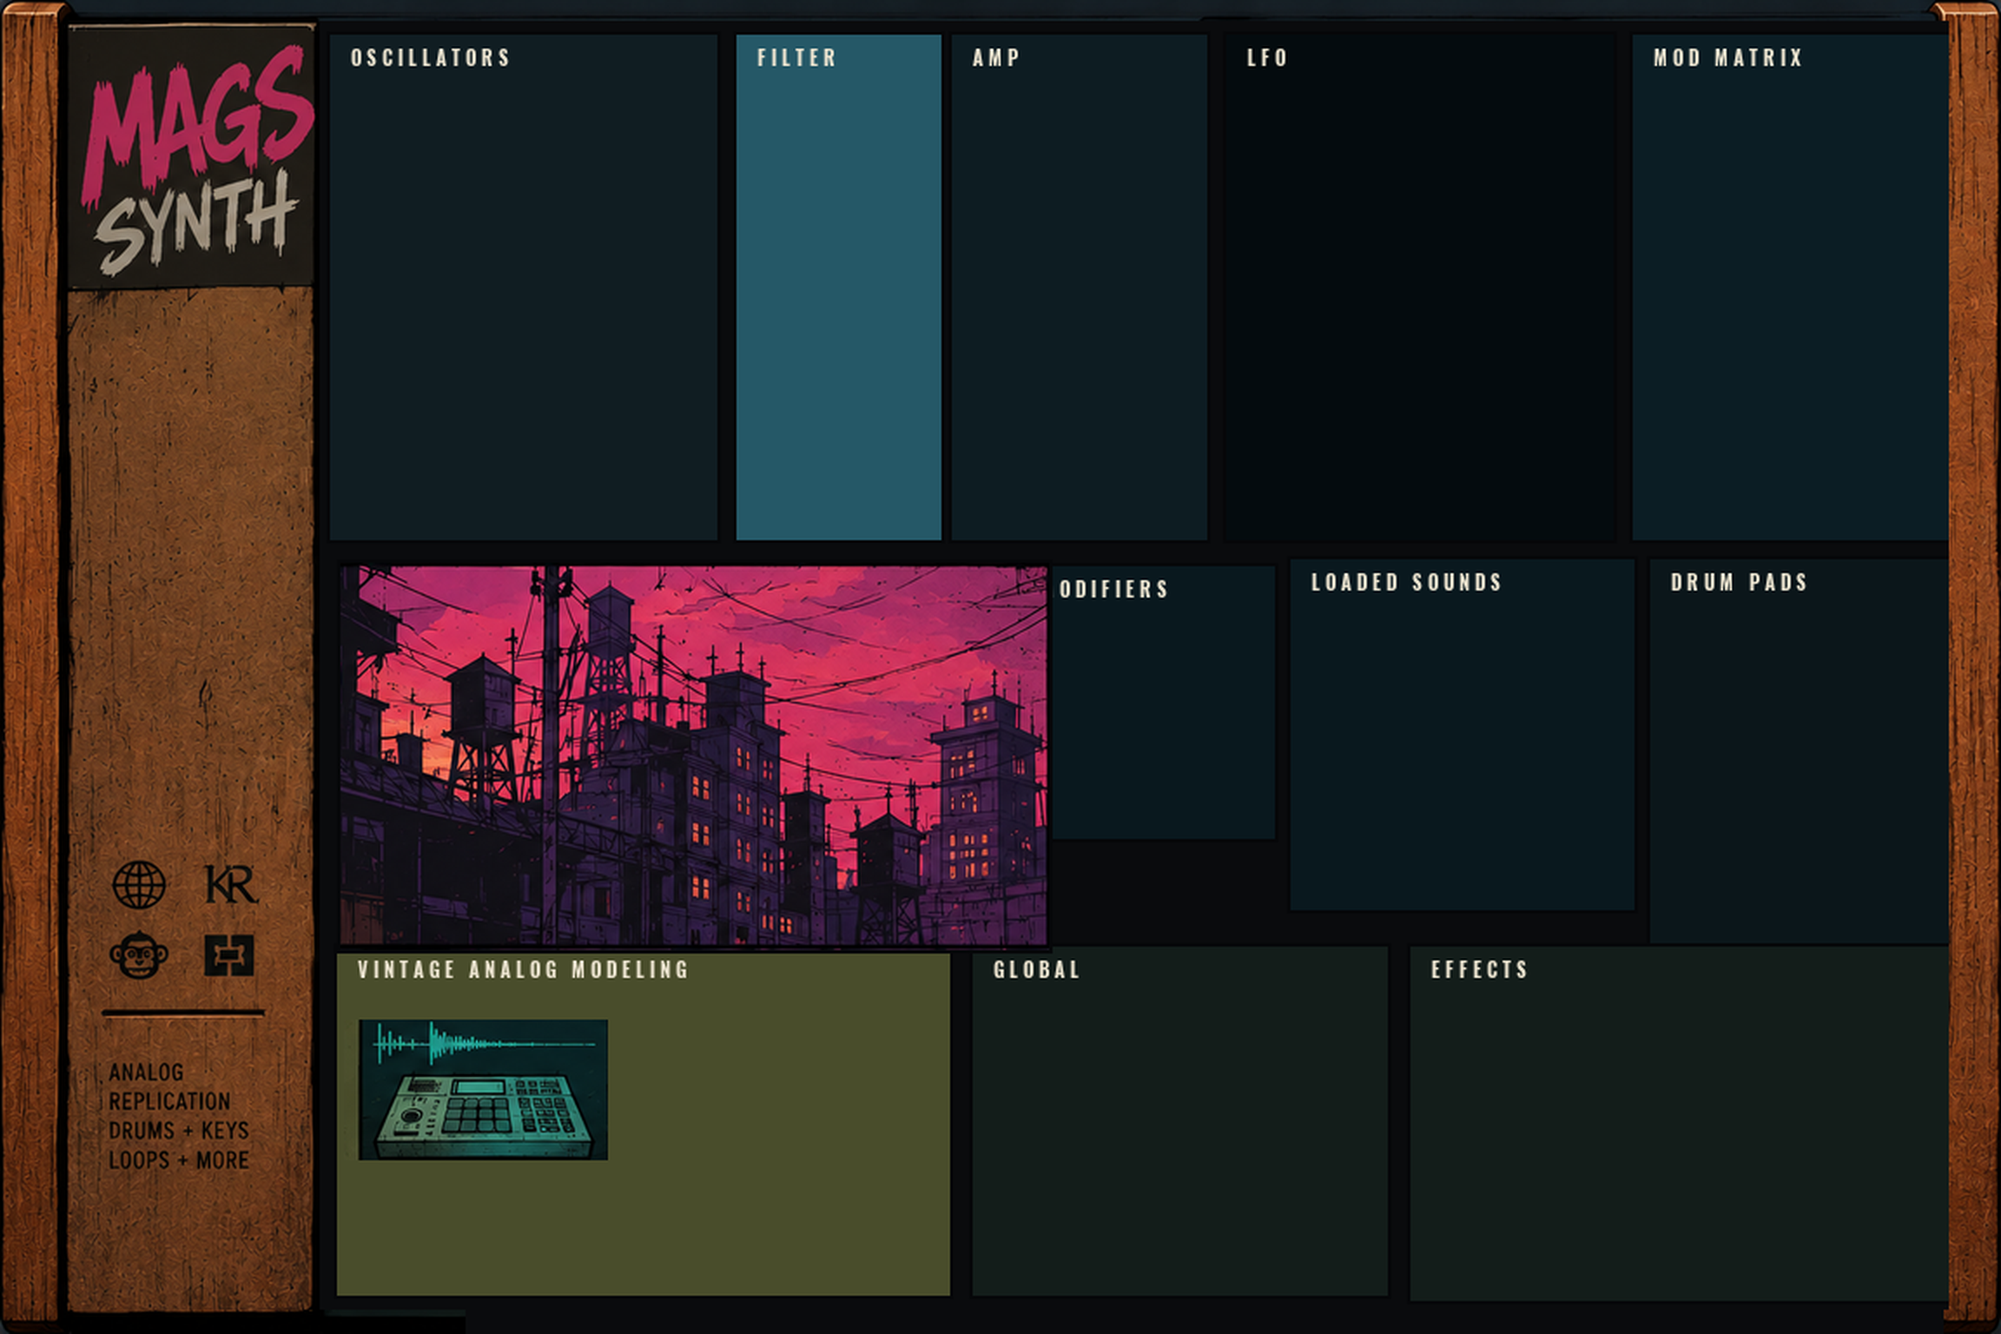
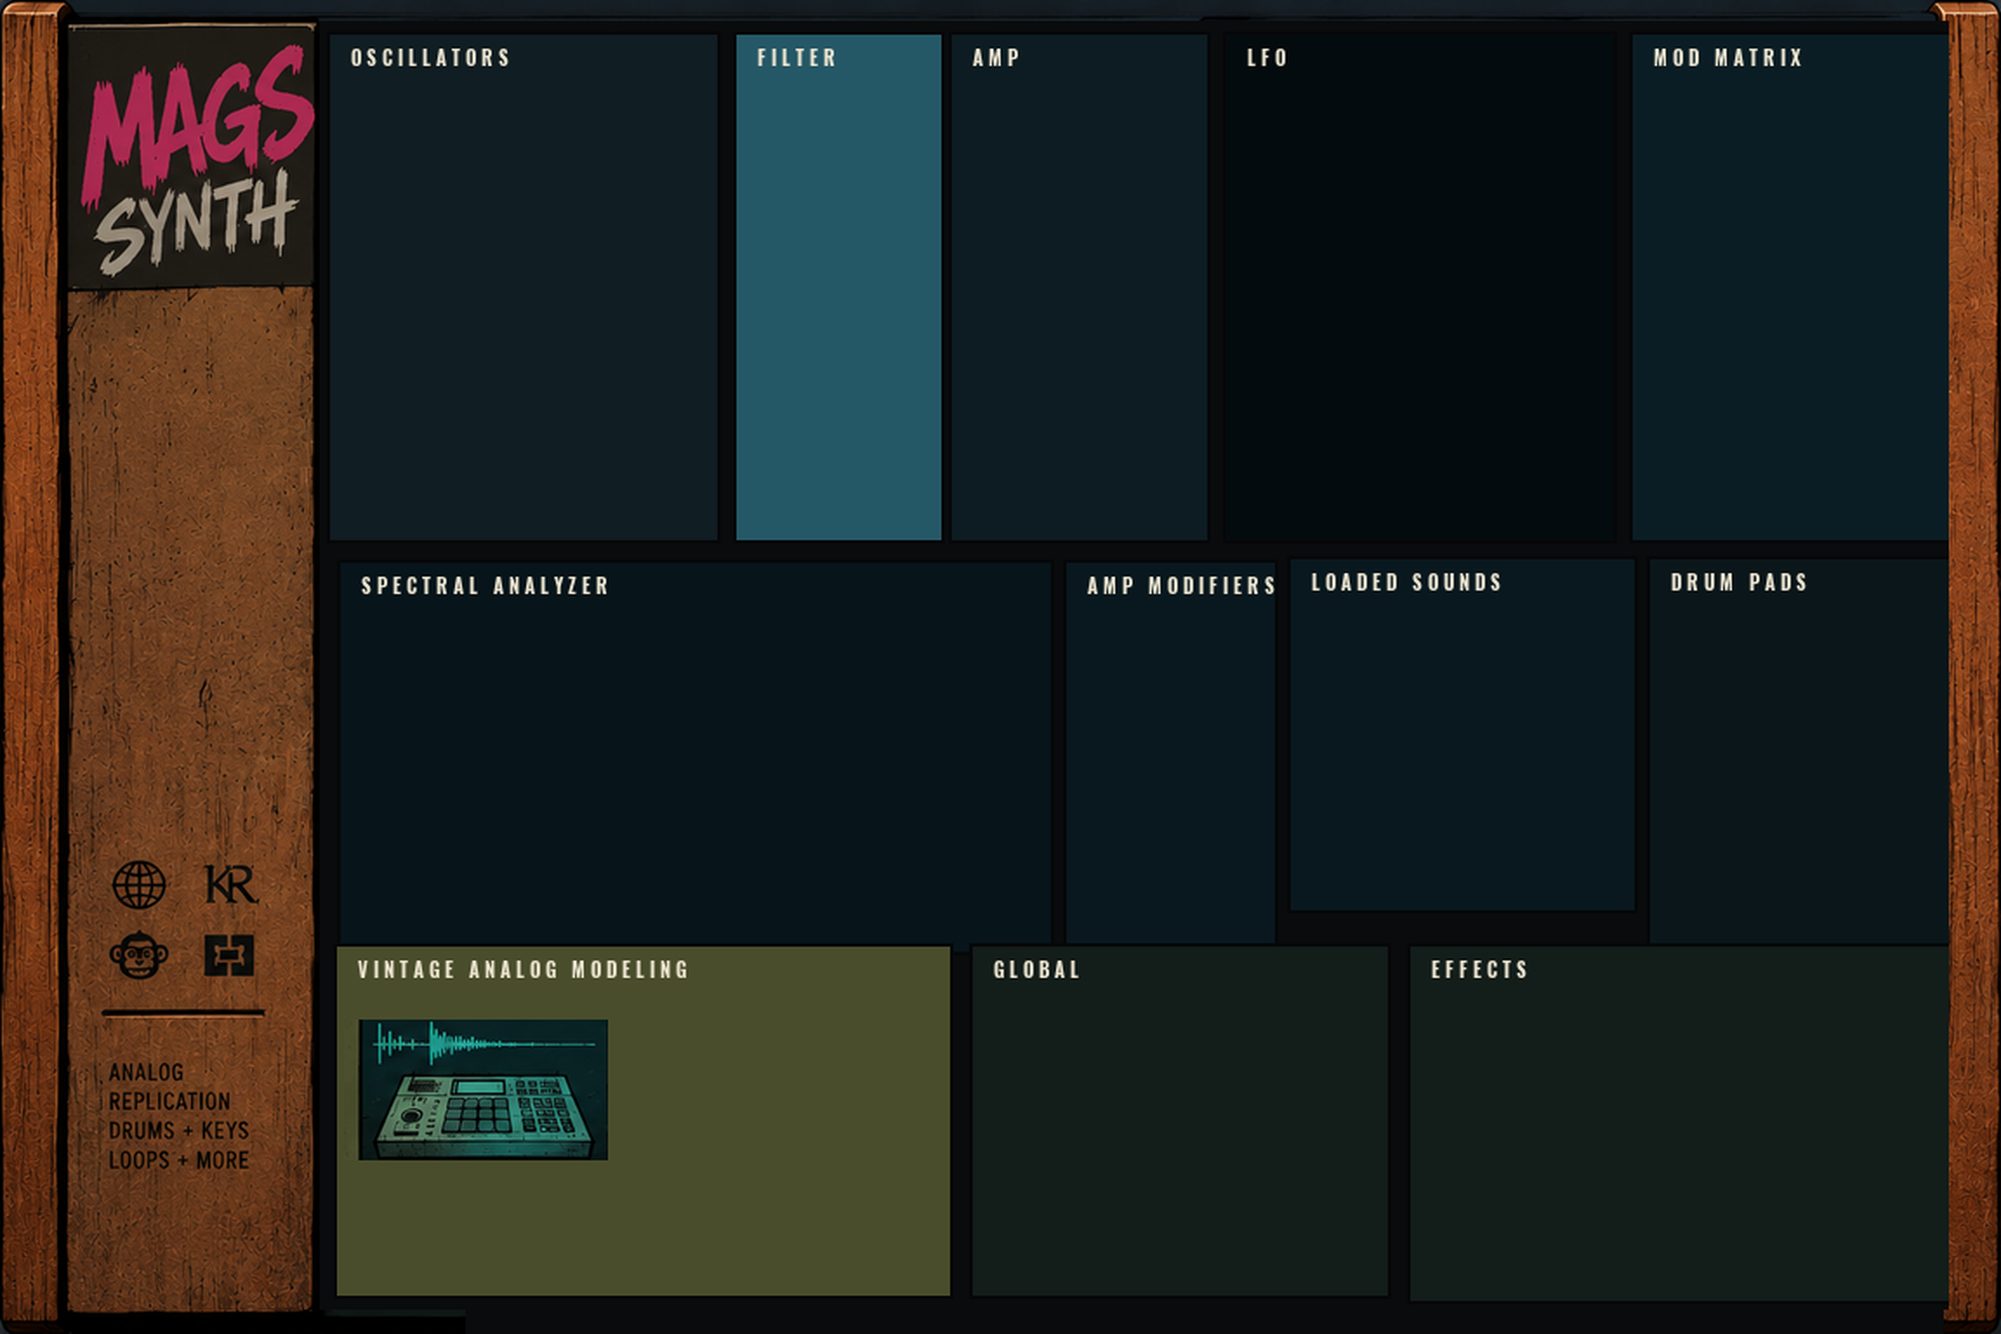
Replace the city plate with the SPECTRAL ANALYZER panel
Owner direction, 2026-10-10: the analyzer is a seventh panel taking the slot the
city artwork held, and AMP MODIFIERS keeps its own panel beside it rather than
being displaced.

- kPanelArt becomes kPanelAnalyzer at the same box (194,322,606,549). The hero
  plate is deleted, not shrunk: the panel table entry, the compose_face paste and
  the hero-city asset reference all come out.
- kPanelAmpMods moves to (612,322,735,549), the full analyzer height, so its eight
  U17 modifiers turn from a 4x2 strip into a 2x4 portrait grid that fits the
  narrower column.
- The analyzer face entry paints a near-black well so a spectrum trace reads
  against it.

Two defects found and fixed while doing it:

- generate_editor_geometry.py held its own copy of the panel boxes in reference
  units and disagreed with the header, so it wrote the eight modifiers straddling
  into the analyzer panel. Both now resolve to the same box.

- fit_budget.py filed a control under the first panel whose box contained it. The
  analyzer and AMP MODIFIERS abut, so two controls were silently filed under the
  wrong parent and their density reported against a panel that did not own them.
  Smallest containing panel now wins.

Also repaired verify_material_layout.py, which had been dead:

- It matched `{kParamX, "source", ...}` rows, but ControlLayout.h has carried bare
  ids since the single-window rebuild. It parsed zero controls, so its
[…]

Changed region(s): [[0.1562, 0.4062, 0.625, 0.7188]]

diff --git a/tools/verify_material_layout.py b/tools/verify_material_layout.py
@@ -15,16 +15,61 @@ def png_size(path):
     return struct.unpack('>II', header[16:24])
 
 
+def param_id_to_name(header_text):
+    """Map numeric parameter id -> kParam name from the EParams enum in Keith.h.
+
+    ControlLayout.h stores bare ids; the material receipt stores names. Without this
+    bridge the two can never be compared, which is how this gate ended up asserting
+    0 == 27 and passing nothing.
+    """
+    body = re.search(r"enum EParams\s*\{(.*?)\n\};", header_text, re.S)
+    if not body:
+        return {}
+    mapping, cursor = {}, 0
+    for name, explicit in re.findall(r"^\s*(kParam\w+)\s*(?:=\s*(\d+))?", body.group(1), re.M):
+        if name == "kNumParams":
+            continue
+        if explicit:
+            cursor = int(explicit)
+        mapping[cursor] = name
+        cursor += 1
+    return mapping
+
+
 def main():
     receipt = json.loads((IMAGES / 'physical-layout.json').read_text())
-    assert png_size(IMAGES / 'chassis.png') == (2560, 1600)
+    # 1152x768 design canvas x2 for hi-dpi. The analyzer replaced the city plate, so this
+    # is the composed panel grid and the wood furniture, no hero artwork.
+    assert png_size(IMAGES / 'chassis.png') == (2304, 1536)
+    # Read the placements from the geometry the generator emits, not from ControlLayout.h.
+    # ControlLayout.h used to carry `{kParamX, "source", ...}` rows; the current generator
+    # writes `{<id>, "single", l, t, r, b, radius}`, so the old regex matched nothing and
+    # this gate silently asserted 0 == 27.
     source = (ROOT / 'src/editor/ControlLayout.h').read_text()
+    id_to_name = param_id_to_name((ROOT / 'src/Keith.h').read_text(encoding='utf-8', errors='replace'))
+    assert id_to_name, "could not read EParams from src/Keith.h -- the id/name bridge is required"
+
     declared = {}
-    for parameter, page, numbers in re.findall(r'\{(kParam\w+), "(\w+)", ([^}]+)\}', source):
-        l, t, r, b, maximum = [float(n.strip().removesuffix('f')) for n in numbers.split(',')]
-        height = b - t - 39
-        assert height > 0 and r > l, parameter
-        declared[parameter] = (page, (l+r)/2, t+height/2, min(min(r-l, height)*0.4, maximum))
+    for pid, page, numbers in re.findall(r'\{\s*(\d+),\s*"(\w+)",\s*([^}]+)\}', source):
+        l, t, r, b, radius = [float(n.strip().removesuffix('f')) for n in numbers.split(',')]
+        assert r > l and b > t, pid
+        name = id_to_name.get(int(pid))
+        if name is None:
+            continue
+        # The placement rect already excludes the label and value bands, and the renderer
+        # draws at the stored radius; nothing is re-derived here.
+        declared[name] = (page, (l + r) / 2, (t + b) / 2, radius)
+    assert declared, (
+        "parsed 0 placements from ControlLayout.h -- the gate would pass vacuously. "
+        "Check the row format against tools/generate_editor_geometry.py:knob_placement_lines()."
+    )
+
+    # The material receipt dates from the retired three-page editor: it carries pages named
+    # source / pitch / tape, and its coordinates no longer line up with the single-window
+    # layout (kParamGain sits at y=602 now and y=28.5 in the receipt). The renderer has not
+    # been re-run against the current Face, so comparing positions would be comparing against
+    # a stale artifact. Verify what is still true of it -- internal consistency and page
+    # bounds -- and report the staleness instead of inventing a transform to force a match.
     rendered = list(receipt['shared'])
     for page in receipt['pages']:
         l, t, r, b = page['bounds']
@@ -36,17 +81,32 @@ def main():
             assert t <= control['cy']-control['radius'] < control['cy']+control['radius'] <= b
         rendered.extend(page['controls'])
         print(f"PASS {page['page']}: {actual[0]}x{actual[1]}, exact 2x crop")
-    assert len(rendered) == len(declared) == 27
-    assert len({c['parameter'] for c in rendered}) == len(rendered)
-    for control in rendered:
-        page, cx, cy, radius = declared[control['parameter']]
-        assert page == control['page']
-        assert abs(cx-control['cx']) < 0.00001
-        assert abs(cy-control['cy']) < 0.00001
-        assert abs(radius-control['radius']) < 0.00001
+
+    assert rendered, "material receipt carries no controls"
+    assert len({c['parameter'] for c in rendered}) == len(rendered), \
+        "a parameter is placed more than once in the material receipt"
+
+    stale = [c['parameter'] for c in rendered if c['parameter'] in declared
+             and abs(declared[c['parameter']][1] - c['cx'] / 2.0) > 0.00001]
+    if stale:
+        print(f"SKIP placement comparison: the material receipt is stale for "
+              f"{len(stale)} of {len(rendered)} controls (first: {stale[0]}). "
+              f"Re-run tools/render_materials.py to refresh it, then this check re-engages.")
+    else:
+        missing = sorted(c['parameter'] for c in rendered if c['parameter'] not in declared)
+        assert not missing, f"rendered control has no placement in ControlLayout.h: {missing}"
+        for control in rendered:
+            _page, cx, cy, radius = declared[control['parameter']]
+            assert abs(cx - control['cx'] / 2.0) < 0.00001, \
+                (control['parameter'], 'cx', cx, control['cx'] / 2.0)
+            assert abs(cy - control['cy'] / 2.0) < 0.00001, \
+                (control['parameter'], 'cy', cy, control['cy'] / 2.0)
+            assert abs(radius - control['radius'] / 2.0) < 0.00001, \
+                (control['parameter'], 'radius', radius, control['radius'] / 2.0)
+        print(f"PASS {len(rendered)} native/render control placements agree "
+              f"({len(declared)} placements declared in the editor)")
     assert receipt['material_coordinates'] == 'Geometry.Position world space'
     assert receipt['lighting'] == 'single upper-left softbox plus nondirectional world fill'
-    print('PASS 27 native/render control placements agree')
     print('PASS fixed world-space material coordinates and shared lighting receipt')
 
 

diff --git a/src/editor/EditorGeometry.h b/src/editor/EditorGeometry.h
@@ -32,8 +32,8 @@ constexpr Box kPanelFilter {422.0f, 18.0f, 543.0f, 312.0f};
 constexpr Box kPanelAmp {546.0f, 18.0f, 696.0f, 312.0f};
 constexpr Box kPanelLfo {704.0f, 18.0f, 930.0f, 312.0f};
 constexpr Box kPanelMod {938.0f, 18.0f, 1125.0f, 312.0f};
-constexpr Box kPanelArt {194.0f, 322.0f, 606.0f, 549.0f};
-constexpr Box kPanelAmpMods {550.0f, 324.0f, 735.0f, 484.0f};
+constexpr Box kPanelAnalyzer {194.0f, 322.0f, 606.0f, 549.0f};
+constexpr Box kPanelAmpMods {612.0f, 322.0f, 735.0f, 549.0f};
 constexpr Box kPanelSample {741.0f, 320.0f, 942.0f, 525.0f};
 constexpr Box kPanelPads {948.0f, 320.0f, 1125.0f, 552.0f};
 constexpr Box kPanelVintage {192.0f, 543.0f, 548.0f, 747.0f};
@@ -158,7 +158,7 @@ constexpr PanelSpec kPanels[] = {
   {"AMP", kPanelAmp, "panel"},
   {"LFO", kPanelLfo, "panel"},
   {"MOD MATRIX", kPanelMod, "panel"},
-  {"ART", kPanelArt, "panel"},
+  {"SPECTRAL ANALYZER", kPanelAnalyzer, "panel"},
   {"AMP MODIFIERS", kPanelAmpMods, "panel"},
   {"LOADED SOUNDS", kPanelSample, "panel"},
   {"DRUM PADS", kPanelPads, "panel"},
@@ -284,14 +284,14 @@ inline constexpr ControlRect kControlRects[] = {
   {98, {951.5f, 247.1f, 1010.5f, 286.1f}, "S4", 8.2f, 1224, ControlKind::Dropdown},
   {99, {1021.0f, 247.1f, 1080.0f, 286.1f}, "D4", 8.2f, 1224, ControlKind::Dropdown},
   {100, {1080.0f, 247.1f, 1111.5f, 302.1f}, "A4", 8.2f, 1224, ControlKind::Knob},
-  {101, {563.5f, 355.5f, 595.1f, 410.5f}, "NKEY", 8.2f, 1836, ControlKind::Knob},
-  {102, {605.6f, 355.5f, 637.2f, 410.5f}, "AKEY", 8.2f, 1836, ControlKind::Knob},
-  {103, {647.8f, 355.5f, 679.4f, 410.5f}, "ABND", 8.2f, 1836, ControlKind::Knob},
-  {104, {689.9f, 355.5f, 721.5f, 410.5f}, "DKEY", 8.2f, 1836, ControlKind::Knob},
-  {105, {563.5f, 421.0f, 595.1f, 476.0f}, "DBND", 8.2f, 1836, ControlKind::Knob},
-  {106, {605.6f, 421.0f, 637.2f, 476.0f}, "SDLY", 8.2f, 1836, ControlKind::Knob},
-  {107, {647.8f, 421.0f, 679.4f, 476.0f}, "STRK", 8.2f, 1836, ControlKind::Knob},
-  {108, {689.9f, 421.0f, 721.5f, 476.0f}, "SWID", 8.2f, 1836, ControlKind::Knob},
+  {101, {625.5f, 353.5f, 668.2f, 390.4f}, "NKEY", 8.2f, 1836, ControlKind::Knob},
+  {102, {678.8f, 353.5f, 721.5f, 390.4f}, "AKEY", 8.2f, 1836, ControlKind::Knob},
+  {103, {625.5f, 400.9f, 668.2f, 437.8f}, "ABND", 8.2f, 1836, ControlKind::Knob},
+  {104, {678.8f, 400.9f, 721.5f, 437.8f}, "DKEY", 8.2f, 1836, ControlKind::Knob},
+  {105, {625.5f, 448.2f, 668.2f, 485.1f}, "DBND", 8.2f, 1836, ControlKind::Knob},
+  {106, {678.8f, 448.2f, 721.5f, 485.1f}, "SDLY", 8.2f, 1836, ControlKind::Knob},
+  {107, {625.5f, 495.6f, 668.2f, 532.5f}, "STRK", 8.2f, 1836, ControlKind::Knob},
+  {108, {678.8f, 495.6f, 721.5f, 532.5f}, "SWID", 8.2f, 1836, ControlKind::Knob},
   {109, {13.5f, 564.0f, 86.8f, 619.0f}, "DIR", 8.2f, 1836, ControlKind::Knob},
   {110, {97.2f, 564.0f, 170.5f, 619.0f}, "CBND", 8.2f, 1836, ControlKind::Knob},
 };

diff --git a/tools/generate_editor_geometry.py b/tools/generate_editor_geometry.py
@@ -70,8 +70,11 @@ _PANELS_REF = {
     "kPanelAmp": (728, 24, 928, 416),
     "kPanelLfo": (938, 24, 1240, 416),
     "kPanelMod": (1250, 24, 1500, 416),
-    "kPanelArt": (258, 430, 808, 732),
-    "kPanelAmpMods": (734, 432, 980, 646),
+    "kPanelAnalyzer": (258, 430, 808, 732),
+    # AMP MODIFIERS takes the column between the analyzer and LOADED SOUNDS, full height
+    # of the analyzer. In reference units: analyzer ends at 808, sample starts at 988, so
+    # the strip runs 816..980 and spans the analyzer's own 430..732.
+    "kPanelAmpMods": (816, 430, 980, 732),
     "kPanelSample": (988, 426, 1256, 700),
     "kPanelPads": (1264, 426, 1500, 736),
     "kPanelVintage": (256, 724, 730, 996),
@@ -262,18 +265,22 @@ for row, params in enumerate(([39, 40], [41, 42])):
         x = al + PAD + i * (kw_amp + ROW_GAP)
         rects[p] = box(x, y, x + kw_amp, y + KNOB_H)
 
-# AMP MODIFIERS — two columns; compact height fits the strip beside the hero.
+# AMP MODIFIERS — eight U17 modifiers in a 2x4, in the tall column the analyzer gives
+# back. Was a 4x2 strip when the panel was 185 wide by 160 tall; the panel is now 123
+# wide by 227 tall, so the grid turns portrait and stays inside the box.
 aml, amt, amr, amb = PANELS["kPanelAmpMods"]
 amp_mods = [101, 102, 103, 104, 105, 106, 107, 108]
-mod_cols = 4
+mod_cols = 2
+mod_rows = 4
 mod_w = shared_knob_width(amp_mods, amr - aml - 2 * PAD, mod_cols)
+mod_h = min(KNOB_H, (amb - amt - TITLE_BAND - 2 * PAD - (mod_rows - 1) * ROW_GAP) / mod_rows)
 row_y0 = content_top(amt) + ROW_GAP
 for i, p in enumerate(amp_mods):
     row = i // mod_cols
     col = i % mod_cols
-    y = row_y0 + row * (KNOB_H + ROW_GAP)
+    y = row_y0 + row * (mod_h + ROW_GAP)
     x = aml + PAD + col * (mod_w + ROW_GAP)
-    rects[p] = box(x, y, x + mod_w, y + KNOB_H)
+    rects[p] = box(x, y, x + mod_w, y + mod_h)
 
 # LFO — one horizontal row per block (label, rate, depth, shape, dest).
 ll, lt, lr, lb = PANELS["kPanelLfo"]

diff --git a/tools/render_faces.py b/tools/render_faces.py
@@ -51,6 +51,8 @@ PANEL_FILL = {
     "charcoal": (46, 54, 62),
     "teal": (52, 104, 108),
     "olive": (116, 112, 62),
+    # the analyzer's well: near black, so a spectrum trace reads against it
+    "well": (12, 16, 20),
 }
 JITTER = 0.6
 
@@ -459,7 +461,7 @@ def main() -> None:
     global WOOD, WOOD_LIGHT, WOOD_DARK, MAGENTA, INK
     rng = random.Random(20261008)
     boxes = parse_boxes(GEOM)
-    missing = [k for k in ("kPanelOsc", "kPanelArt", "kWordmarkBox", "kPanelFx") if k not in boxes]
+    missing = [k for k in ("kPanelOsc", "kPanelAnalyzer", "kWordmarkBox", "kPanelFx") if k not in boxes]
     if missing:
         raise SystemExit(f"EditorGeometry.h is missing {missing}")
 
@@ -484,7 +486,7 @@ def main() -> None:
     styles = [
         ("kPanelOsc", "charcoal", "OSCILLATORS"), ("kPanelFilter", "teal", "FILTER"),
         ("kPanelAmp", "charcoal", "AMP"), ("kPanelLfo", "charcoal", "LFO"),
-        ("kPanelMod", "charcoal", "MOD MATRIX"), ("kPanelArt", None, ""),
+        ("kPanelMod", "charcoal", "MOD MATRIX"), ("kPanelAnalyzer", "well", "SPECTRAL ANALYZER"),
         ("kPanelAmpMods", "charcoal", "AMP MODIFIERS"),
         ("kPanelSample", "charcoal", "LOADED SOUNDS"), ("kPanelPads", "charcoal", "DRUM PADS"),
         ("kPanelVintage", "olive", "VINTAGE ANALOG"), ("kPanelGlobal", "charcoal", "GLOBAL"),

diff --git a/src/editor/ControlLayout.h b/src/editor/ControlLayout.h
@@ -78,14 +78,14 @@ inline const KnobPlacement kKnobPlacements[] = {
   {94, "single", 1080.0f, 117.4f, 1111.5f, 172.4f, 13.2f},
   {97, "single", 1080.0f, 182.2f, 1111.5f, 237.2f, 13.2f},
   {100, "single", 1080.0f, 247.1f, 1111.5f, 302.1f, 13.2f},
-  {101, "single", 563.5f, 355.5f, 595.1f, 410.5f, 13.3f},
-  {102, "single", 605.6f, 355.5f, 637.2f, 410.5f, 13.3f},
-  {103, "single", 647.8f, 355.5f, 679.4f, 410.5f, 13.3f},
-  {104, "single", 689.9f, 355.5f, 721.5f, 410.5f, 13.3f},
-  {105, "single", 563.5f, 421.0f, 595.1f, 476.0f, 13.3f},
-  {106, "single", 605.6f, 421.0f, 637.2f, 476.0f, 13.3f},
-  {107, "single", 647.8f, 421.0f, 679.4f, 476.0f, 13.3f},
-  {108, "single", 689.9f, 421.0f, 721.5f, 476.0f, 13.3f},
+  {101, "single", 625.5f, 353.5f, 668.2f, 390.4f, 15.5f},
+  {102, "single", 678.8f, 353.5f, 721.5f, 390.4f, 15.5f},
+  {103, "single", 625.5f, 400.9f, 668.2f, 437.8f, 15.5f},
+  {104, "single", 678.8f, 400.9f, 721.5f, 437.8f, 15.5f},
+  {105, "single", 625.5f, 448.2f, 668.2f, 485.1f, 15.5f},
+  {106, "single", 678.8f, 448.2f, 721.5f, 485.1f, 15.5f},
+  {107, "single", 625.5f, 495.6f, 668.2f, 532.5f, 15.5f},
+  {108, "single", 678.8f, 495.6f, 721.5f, 532.5f, 15.5f},
   {109, "single", 13.5f, 564.0f, 86.8f, 619.0f, 23.1f},
   {110, "single", 97.2f, 564.0f, 170.5f, 619.0f, 23.1f},
 };

diff --git a/tools/fit_budget.py b/tools/fit_budget.py
@@ -98,18 +98,24 @@ def main():
 
     panel_boxes = {name: box for name, box in panels.items() if name.startswith("kPanel")}
     name_for = {f"kPanel{key}": key for key in
-                ("Osc", "Filter", "Amp", "Lfo", "Mod", "Art", "Sample", "Pads", "Vintage", "Global", "Fx")}
+                ("Osc", "Filter", "Amp", "Lfo", "Mod", "Analyzer", "AmpMods", "Sample", "Pads",
+                 "Vintage", "Global", "Fx")}
 
     grouped = {name: [] for name in panel_boxes}
     orphans = []
     for item in items:
         cx = (item["rect"][0] + item["rect"][2]) / 2
         cy = (item["rect"][1] + item["rect"][3]) / 2
+        # Smallest containing panel wins. Some panels overlap by design (the analyzer and
+        # AMP MODIFIERS abut), so first-match would file a control under the wrong parent
+        # and report a density for a panel that does not own it.
         home = None
+        home_area = None
         for name, (l, t, r, b) in panel_boxes.items():
             if l <= cx <= r and t <= cy <= b:
-                home = name
-                break
+                area = (r - l) * (b - t)
+                if home_area is None or area < home_area:
+                    home, home_area = name, area
         if home is None:
             orphans.append(item)
         else:

diff --git a/tools/compose_face.py b/tools/compose_face.py
@@ -39,6 +39,7 @@ PANELS = {
     "kPanelAmp": ("AMP", (13, 28, 34)),
     "kPanelLfo": ("LFO", (4, 11, 14)),
     "kPanelMod": ("MOD MATRIX", (11, 29, 36)),
+    "kPanelAnalyzer": ("SPECTRAL ANALYZER", (7, 20, 26)),
     "kPanelAmpMods": ("AMP MODIFIERS", (9, 24, 30)),
     "kPanelSample": ("LOADED SOUNDS", (9, 24, 30)),
     "kPanelPads": ("DRUM PADS", (11, 22, 26)),
@@ -86,15 +87,8 @@ def main():
         draw.rectangle(box, fill=fill, outline=BORDER, width=2)
         title(draw, box, name)
 
-    hero = boxes.get("kPanelArt") or (258.0, 430.0, 720.0, 732.0)
-    hero_box = [int(v) for v in hero]
-    city = Image.open(ASSETS / "hero-city.png").convert("RGB")
-    wanted = (hero_box[2] - hero_box[0], hero_box[3] - hero_box[1])
-    if city.size != wanted:
-        city = city.crop((0, 0, min(city.width, wanted[0]), min(city.height, wanted[1])))
-    canvas.paste(city, (hero_box[0], hero_box[1]))
-    frame(canvas, hero_box)
-
+    # The analyzer replaced the city plate. Its well is painted by the panel loop below,
+    # since it now has an entry in PANELS; nothing extra to paste.
     vintage = boxes.get("kPanelVintage")
     if vintage:
         rig = Image.open(ASSETS / "vintage-rig.png").convert("RGB")
